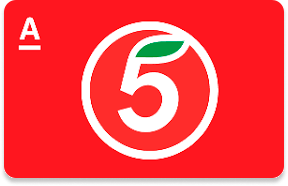
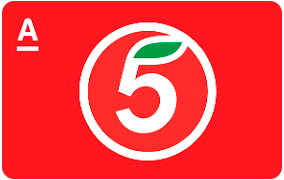
убрал алерты в настройках регистрации авторизации + изменил карты

diff --git a/screens/SettingsScreen.tsx b/screens/SettingsScreen.tsx
@@ -11,13 +11,9 @@ const SettingsScreen = ({ navigation }) => {
   const [newPassword, setNewPassword] = useState("");
   const [oldPassword, setOldPassword] = useState("");
   const { isAuth, setIsAuth } = useAuth();
-
-  // const updateStack = () => {
-  //   navigation.reset({
-  //     index: 0,
-  //     routes: [{ name: 'Auth' }]
-  //   })
-  // }
+  const [error, setError] = useState(false);
+  const [text, setText] = useState('');
+  const [isSucccess, setIsSuccess] = useState(false)
 
   const goBack = () => {
     navigation.goBack();
@@ -27,20 +23,21 @@ const SettingsScreen = ({ navigation }) => {
     await AsyncStorage.removeItem("password");
     await AsyncStorage.removeItem("token").then(() => {
       setIsAuth(false);
-      // updateStack()
       navigation.navigate("Auth");
     });
   }
 
+
   const updatePassword = async () => {
     const rightOldPassword = await AsyncStorage.getItem("password");
-    if (oldPassword !== rightOldPassword) {
-      Alert.alert("Ошибка", "Вы ввели неправильный старый пароль.", [
-        { text: "OK" }]);
+    console.log(rightOldPassword)
+    if (oldPassword !== rightOldPassword || oldPassword === '' || newPassword === '') {
+      setError(true)
+      setText("Вы ввели неправильный старый пароль")
     } else {
       if (oldPassword === newPassword) {
-        Alert.alert("Ошибка", "Пароли совпадают.", [
-          { text: "OK" }]);
+        setError(true)
+        setText("Пароли совпадают")
       } else {
         try {
           let url = "http://192.248.177.166:8000/login/change_password";
@@ -58,17 +55,24 @@ const SettingsScreen = ({ navigation }) => {
           }).then(response => response.json());
           await AsyncStorage.removeItem("password");
           await AsyncStorage.setItem("password", newPassword);
-          Alert.alert("Успешно", "Ваш пароль сменён.", [
-            { text: "OK", onPress: () => (setNewPassword(""), setOldPassword("")) }]);
+          setError(true)
+          setText("Вы сменили пароль")
+          setIsSuccess(true)
         } catch (e) {
           if (e instanceof Error) {
-            Alert.alert("Ошибка", e.message, [
-              { text: "OK" }]);
+            setError(true)
+            setText(e.message)
           }
         }
       }
     }
   };
+
+  const focus = () => {
+    setError(false)
+    setIsSuccess(false)
+  }
+
   return (
     <View style={styles.container}>
       <View  style={[{marginTop:10, marginHorizontal:20 }]}>
@@ -80,13 +84,17 @@ const SettingsScreen = ({ navigation }) => {
 
       <View style={[{ alignItems: "center" }]}>
         <View style={[{ flexDirection: "row" }]}>
-          <TextInputHidePassComponent place={"Старый пароль"} value={oldPassword} func={setOldPassword} />
+          <TextInputHidePassComponent place={"Старый пароль"} value={oldPassword} func={setOldPassword} focus = {focus} />
         </View>
 
         <View style={[{ flexDirection: "row" }]}>
-          <TextInputHidePassComponent place={"Новый пароль"} value={newPassword} func={setNewPassword} />
+          <TextInputHidePassComponent place={"Новый пароль"} value={newPassword} func={setNewPassword} focus = {focus}/>
         </View>
         <GlobalButton color={"#7FDA77"} text={"Сменить пароль"} func={updatePassword} />
+
+        {error && <Text style={[{fontSize: 15,marginTop:'5%' ,color: !isSucccess? "#ff4c5b" : "#7FDA77", fontWeight:'bold', alignSelf:'center'}]}>{text}</Text>}
+
+
       </View>
 
       <View style={[{ alignItems: "center", marginBottom: 20 }]}>

diff --git a/components/forCard/CardComponent.tsx b/components/forCard/CardComponent.tsx
@@ -8,14 +8,20 @@ import {
 import Icon from "react-native-vector-icons/AntDesign";
 
 const CardComponent = (props) => {
-
   const [loadImage, setLoadImage] = useState<boolean>(false)
-  const designs = {
-    m: props.storeChain === 2 ? require("../../images/магнит.png") : require("../../images/пятёрочка.png")
-  };
   const [modalVisible, setModalVisible] = useState(false);
+
+  const designs = GetDesigns(props.storeChain)
+
+  function GetDesigns(x) {
+    switch (x){
+      case 1:  return  require("../../images/пятёрочка.png")
+      case 2:  return require("../../images/магнит.png")
+      case 3:  return require("../../images/перекрёсток.png")
+    }
+  }
   return (
-    <View style={[{ backgroundColor: "#232323", marginTop: 40, marginBottom:15 }]}>
+    <View style={[{ backgroundColor: "#232323", marginTop: 25, marginBottom:30}]}>
       <Modal
         animationType="slide"
         transparent={true}
@@ -26,6 +32,11 @@ const CardComponent = (props) => {
       >
         <View style={styles.centeredView}>
           <View style={styles.modalView}>
+            <View style={styles.buttonClose}>
+              <TouchableOpacity onPress={() => setModalVisible(!modalVisible)}>
+                <Icon  name={"close"} size={25}/>
+              </TouchableOpacity>
+            </View>
             {loadImage ? null :
               <>
                 <View style={[{marginTop:'50%'}]}>
@@ -34,31 +45,17 @@ const CardComponent = (props) => {
               </> }
             <Image style={[{height: '97%', width: '100%', borderRadius: 20 }]}
                    source={{ uri: props.image}} onLoad={() => setLoadImage(true)}/>
-
-            <View style={[{flexDirection: 'row', justifyContent: 'flex-end'}]}>
               <View style={styles.buttonDelete}>
-                <TouchableOpacity
-                    onPress={() => setModalVisible(!modalVisible)}
-                >
+                <TouchableOpacity onPress={() => setModalVisible(!modalVisible)}>
                   <Text style={[{color: '#434343', fontSize: 15, fontWeight: "bold",}]}>Удалить карту</Text>
                 </TouchableOpacity>
               </View>
-
-              <View style={styles.buttonClose}>
-                <TouchableOpacity
-                    onPress={() => setModalVisible(!modalVisible)}
-                >
-                  <Icon  name={"close"} size={25} color={"#434343"} />
-                </TouchableOpacity>
-              </View>
-            </View>
-
           </View>
         </View>
       </Modal>
         <TouchableOpacity onPress={() => setModalVisible(true)} >
           <View>
-        <Image source={designs.m}  style={styles.card}/>
+        <Image source={designs}  style={styles.card}/>
           </View>
       </TouchableOpacity>
     </View>
@@ -79,16 +76,14 @@ const styles = StyleSheet.create({
     borderRadius: 20,
     padding: 15,
     paddingBottom: 25,
-    //alignItems: "center",
 
   },
   buttonClose: {
-    alignSelf: 'flex-end',
+    alignSelf: "flex-end",
     borderRadius: 20,
-    backgroundColor: "#ff4c5b",
-    marginTop: '2%',
-    marginRight: '5%',
-    zIndex: 2
+    backgroundColor: "#C5C5C5",
+    zIndex: 2,
+    position:"absolute"
   },
 
   buttonDelete: {
@@ -96,14 +91,13 @@ const styles = StyleSheet.create({
     borderRadius: 20,
     backgroundColor: "#ff4c5b",
     marginTop: '2%',
-    marginRight: '20%',
     zIndex: 2,
     paddingHorizontal: 10,
-    paddingVertical: 3
+    paddingVertical: 3,
     },
 
   card: {
-    width: '80%',
+    width: '83%',
     height: 210,
     alignSelf: "center",
   }

diff --git a/components/forRegistration/RegistrationForm.tsx b/components/forRegistration/RegistrationForm.tsx
@@ -1,5 +1,5 @@
 import React, { useState } from "react";
-import { StyleSheet, View, SafeAreaView, Image, TouchableOpacity, Alert } from "react-native";
+import { StyleSheet, View, SafeAreaView, Image, TouchableOpacity, Alert, Text } from "react-native";
 import { responsiveFontSize } from "react-native-responsive-dimensions";
 import Icon from "react-native-vector-icons/AntDesign";
 import TextInputHidePassComponent from "../TextInputHidePassComponent";
@@ -10,11 +10,15 @@ const RegistrationForm = ({ navigation }) => {
   const [login, setLogin] = useState("");
   const [password, setPassword] = useState("");
   const [secondPassword, setSecondPassword] = useState("");
+  const [error, setError] = useState(false);
+  const [text, setText] = useState('');
 
   const registrationFunc = async () => {
     if (password !== secondPassword || login === "" || password === "") {
-      Alert.alert("Ошибка", "Пароли не совпадают или не все поля заполнены", [
-        { text: "OK", onPress: () => (setPassword(""), setSecondPassword("")) }]);
+      setError(true)
+      setText("Пароли не совпадают или не все поля заполнены")
+      setPassword('')
+      setSecondPassword('')
     } else {
       try {
         const url = "http://192.248.177.166:8000/login/register";
@@ -36,8 +40,8 @@ const RegistrationForm = ({ navigation }) => {
           }]);
       } catch (e) {
         if (e instanceof Error) {
-          Alert.alert("Ошибка", e.message, [
-            { text: "OK" }]);
+          setError(true)
+          setText(e.message)
         }
       }
     }
@@ -45,7 +49,12 @@ const RegistrationForm = ({ navigation }) => {
 
   const goBack = () => {
     navigation.goBack();
+    setError(false)
   };
+
+  const focus = () => {
+    setError(false)
+  }
 
   return (
     <SafeAreaView style={styles.container}>
@@ -64,16 +73,18 @@ const RegistrationForm = ({ navigation }) => {
 
       <View style={[{ alignItems: "center" }]}>
         <View style={[{ flexDirection: "row", maxWidth: "100%" }]}>
-          <TextInputForLogin place="Введите логин" value={login} func={setLogin} />
+          <TextInputForLogin place="Введите логин" value={login} func={setLogin}  focus = {focus}/>
         </View>
         <View style={[{ flexDirection: "row", maxWidth: "92%" }]}>
-          <TextInputHidePassComponent place="Введите пароль" value={password} func={setPassword} />
+          <TextInputHidePassComponent place="Введите пароль" value={password} func={setPassword}  focus = {focus}/>
         </View>
         <View style={[{ flexDirection: "row", maxWidth: "92%" }]}>
-          <TextInputHidePassComponent place="Повторите пароль" value={secondPassword} func={setSecondPassword} />
+          <TextInputHidePassComponent place="Повторите пароль" value={secondPassword} func={setSecondPassword}  focus = {focus}/>
         </View>
         <GlobalButton color={"#7FDA77"} text="Зарегистрироваться" func={registrationFunc} />
       </View>
+
+      {error && <Text style={[{fontSize: 14,marginTop:'7%' ,color: "#ff4c5b", fontWeight:'bold', alignSelf:'center'}]}>{text}</Text>}
     </SafeAreaView>
   );
 };

diff --git a/components/forAuth/AuthForm.tsx b/components/forAuth/AuthForm.tsx
@@ -11,12 +11,15 @@ const AuthForm = ({ navigation }) => {
   const [login, setLogin] = useState("");
   const [password, setPassword] = useState("");
   const { isAuth, setIsAuth } = useAuth();
+  const [error, setError] = useState(false);
+  const [text, setText] = useState('');
 
 
   const LoadRegistration = () => {
     navigation.navigate("Registration");
     setPassword("");
     setLogin("");
+    setError(false)
   };
 
   async function request() {
@@ -36,16 +39,20 @@ const AuthForm = ({ navigation }) => {
       return await result.json();
     } catch (e) {
       if (e instanceof Error) {
-        Alert.alert("Ошибка", e.message, [
-          { text: "OK" }]);
+        setError(true)
+        setText(e.message)
       }
     }
   }
 
+  const focus = () => {
+    setError(false)
+  }
+
   const authFunction = async () => {
     if (login === "" || password === "") {
-      Alert.alert("Ошибка", "Не все поля заполнены", [
-        { text: "OK" }]);
+      setError(true)
+      setText("Не все поля заполнены")
     } else {
       let a = await request();
       if (typeof a !== "undefined") {
@@ -54,13 +61,14 @@ const AuthForm = ({ navigation }) => {
           await AsyncStorage.setItem("token", a.access_token).then(() => {
             setIsAuth(true);
             navigation.navigate("AllCard");
+            setError(false)
           });
           setPassword("");
           setLogin("");
         } catch (e) {
-          Alert.alert("Ошибка", "Неправильный логин или пароль", [
-            { text: "OK" }
-          ]);
+          setError(true)
+          setText("Неправильный логин или пароль")
+          setPassword('')
         }
       }
     }
@@ -76,11 +84,11 @@ const AuthForm = ({ navigation }) => {
       </View>
       <View style={[{ alignItems: "center" }]}>
         <View style={[{ flexDirection: "row", maxWidth: "100%" }]}>
-          <TextInputForLogin place="Login.." value={login} func={setLogin} />
+          <TextInputForLogin place="Login.." value={login} func={setLogin} focus = {focus}/>
         </View>
 
         <View style={[{ flexDirection: "row", maxWidth: "90%" }]}>
-          <TextInputHidePassComponent place={"Password.."} value={password} func={setPassword} />
+          <TextInputHidePassComponent place={"Password.."} value={password} func={setPassword} focus = {focus} />
         </View>
         <GlobalButton text={"Войти"} color={"#7FDA77"} func={authFunction} />
         <TouchableOpacity style={[{ marginTop: "3%" }]} onPress={LoadRegistration}>
@@ -88,6 +96,8 @@ const AuthForm = ({ navigation }) => {
             Зарегистрироваться
           </Text>
         </TouchableOpacity>
+
+        {error && <Text style={[{fontSize: 15,marginTop:'5%' ,color: "#ff4c5b", fontWeight:'bold', alignSelf:'center'}]}>{text}</Text>}
       </View>
     </SafeAreaView>
   );

diff --git a/components/TextInputHidePassComponent.tsx b/components/TextInputHidePassComponent.tsx
@@ -15,6 +15,7 @@ const TextInputHidePassComponent = (props) => {
       placeholder={props.place}
       placeholderTextColor="#C5C5C5"
       secureTextEntry={hidePass ? true : false}
+      onFocus={props.focus}
     />
   <TouchableWithoutFeedback style={[{alignSelf: "center"}]} onPress={() => setHidePass(!hidePass)}>
     {hidePass ?

diff --git a/components/TextInputForLogin.tsx b/components/TextInputForLogin.tsx
@@ -11,6 +11,7 @@ const TextInputForLogin = (props) => {
       placeholder={props.place}
       placeholderTextColor="#C5C5C5"
       autoCapitalize={"none"}
+      onFocus={props.focus}
     />
   );
 };
